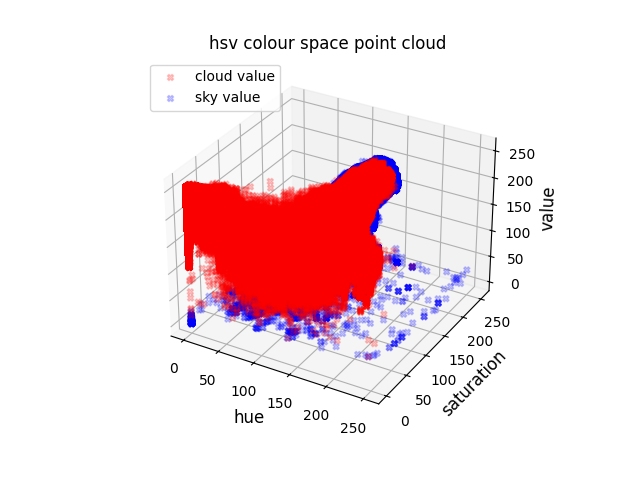
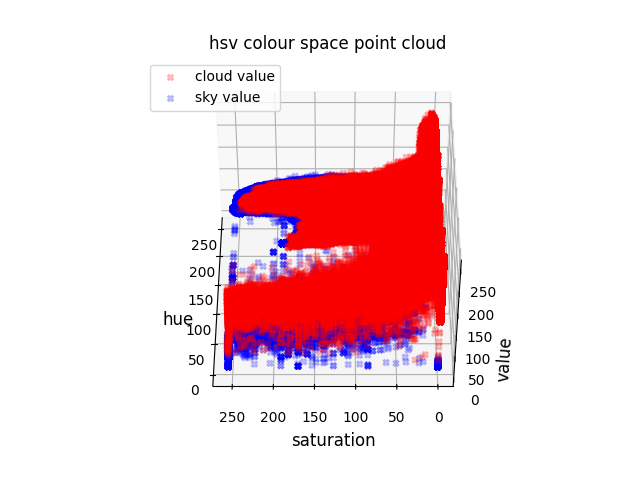
_____

diff --git a/src/scripts/analysis/colour_channel_3d.py b/src/scripts/analysis/colour_channel_3d.py
@@ -43,8 +43,9 @@ def __plot(sky_folder:str, cloud_folder:str, colour_index: int) -> None:
     ax.set_xlabel(f'{components[0]}', fontsize=12)
     ax.set_ylabel(f'{components[1]}', fontsize=12)
     ax.set_zlabel(f'{components[2]}', fontsize=12)
-    plt.show()
-    #plt.savefig(f"{root_graph_folder}/new_3D_{camera}_{colour_tag}.png")
+    ax.view_init(45, 180)
+    #plt.show()
+    plt.savefig(f"{root_graph_folder}/new_3D_{camera}_{colour_tag}.png")
     plt.clf
     collect()
     
@@ -57,12 +58,13 @@ def __main(colour_index: int) -> None:
     
 
 if __name__ == '__main__':
+    workers = 3
     start = datetime.now()
     empty = False
     
     # create a process pool
-    with ProcessPoolExecutor(max_workers=4) as executor:
-        _ = executor.map(__main, range(1))
+    with ProcessPoolExecutor(max_workers=workers) as executor:
+        _ = executor.map(__main, range(workers))
     end = datetime.now()
     runtime = end-start
     debug(f'\n> Runtime : {runtime} \n')

diff --git a/README.md b/README.md
@@ -207,7 +207,7 @@ These show the frequency graphs for the colour channels of the 60 images of the 
 
 DSLR BGR Bar Graph            |  DSLR HSV Bar Graph
 :-------------------------:|:-------------------------:
-![Reference Image](Graphs/old/BGRBarGraph.png)  |  ![Blocked Image](Graphs/old/HSVBarGraph.png)
+![Reference Image](Graphs/new_hist_dslr_rgb.png)  |  ![Blocked Image](Graphs/new_hist_dslr_hsv.png)
 
 <br>
 
@@ -223,7 +223,7 @@ These show the frequency graphs for the colour channels of the 20 images of the 
 
 OV2640 BGR Bar Graph            |  OV2640 HSV Bar Graph
 :-------------------------:|:-------------------------:
-![Reference Image](Graphs/old/BGRBarGraph-esp.png)  |  ![Blocked Image](Graphs/old/HSVBarGraph-esp.png)
+![Reference Image](Graphs/new_hist_ov2640_rgb.png)  |  ![Blocked Image](Graphs/new_hist_ov2640_hsv.png)
 
 <br>
 
@@ -276,14 +276,14 @@ Once a matrix of principle components (colour channels) and their per variance v
 
 DSLR PCA BGR ScatterPLot            |  DSLR PCA HSV Scatterplot
 :-------------------------:|:-------------------------:
-![BGR PCA ScatterPlot for High Res Images](Graphs/old/BGRPcaGraph.png "BGR PCA ScatterPlot for High Res Images")  |  ![HSV PCA ScatterPlot for High Res Images](Graphs/old/HSVPcaGraph.png "HSV PCA ScatterPlot for High Res Images")
+![BGR PCA ScatterPlot for High Res Images](Graphs/new_pca_dslr_rgb.png "BGR PCA ScatterPlot for High Res Images")  |  ![HSV PCA ScatterPlot for High Res Images](Graphs/new_pca_dslr_hsv.png "HSV PCA ScatterPlot for High Res Images")
 
 #### PCA ScatterPlot for OV2640
 <br>
 
 OV2640 PCA BGR ScatterPLot            |  OV2640 PCA HSV Scatterplot
 :-------------------------:|:-------------------------:
-![BGR PCA ScatterPlot for ov2640](Graphs/old/BGRPcaGraph-esp.png "BGR PCA ScatterPlot for ov2640")  |  ![HSV PCA ScatterPlot for ov2640](Graphs/old/HSVPcaGraph-esp.png "HSV PCA ScatterPlot for ov2640")
+![BGR PCA ScatterPlot for ov2640](Graphs/new_pca_ov2640_rgb.png "BGR PCA ScatterPlot for ov2640")  |  ![HSV PCA ScatterPlot for ov2640](Graphs/new_pca_ov2640_hsv.png "HSV PCA ScatterPlot for ov2640")
 
 
 ### Final Comments
